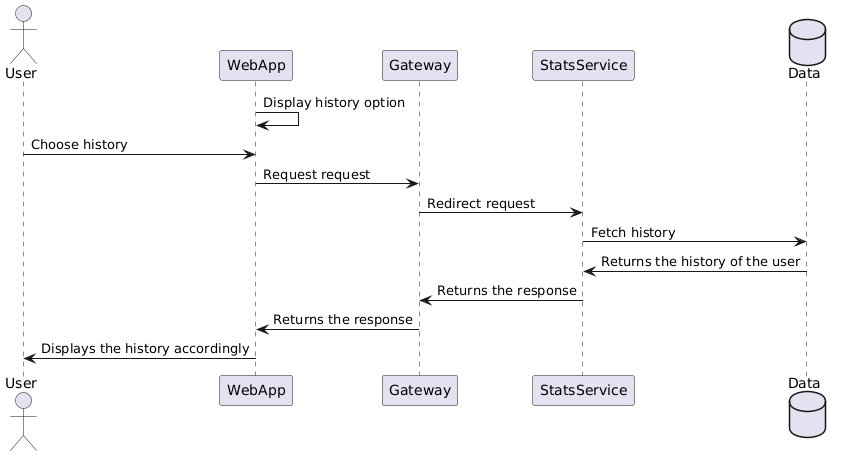
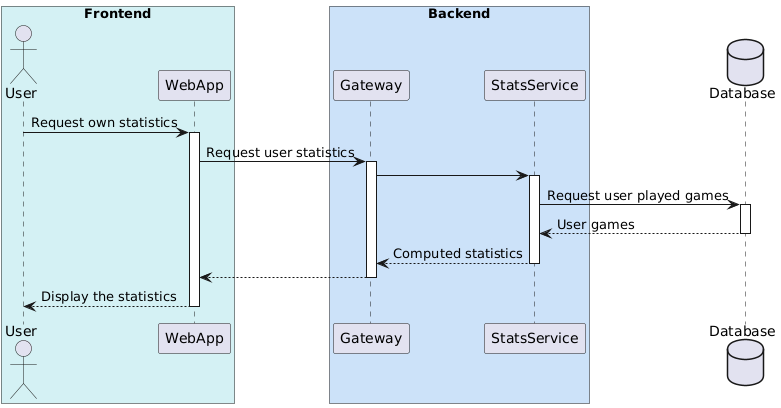
Updates

diff --git a/index.html b/index.html
@@ -486,7 +486,7 @@ body.book #toc,body.book #preamble,body.book h1.sect0,body.book .sect1>h2{page-b
 <li><a href="#_abstract_states_of_the_application">6.1. Abstract states of the application</a></li>
 <li><a href="#_login_of_a_user">6.2. Login of a user</a></li>
 <li><a href="#_game">6.3. Game</a></li>
-<li><a href="#_history_of_a_user">6.4. History of a user</a></li>
+<li><a href="#_statistics_of_a_user">6.4. Statistics of a user</a></li>
 </ul>
 </li>
 <li><a href="#section-deployment-view">7. Deployment View</a>
@@ -501,6 +501,7 @@ body.book #toc,body.book #preamble,body.book h1.sect0,body.book .sect1>h2{page-b
 <li><a href="#_architectural_patterns">8.3. Architectural patterns</a></li>
 <li><a href="#_security">8.4. Security</a></li>
 <li><a href="#_error_handling">8.5. Error handling</a></li>
+<li><a href="#_observability">8.6. Observability</a></li>
 </ul>
 </li>
 <li><a href="#section-design-decisions">9. Architecture Decisions</a></li>
@@ -511,10 +512,17 @@ body.book #toc,body.book #preamble,body.book h1.sect0,body.book .sect1>h2{page-b
 </ul>
 </li>
 <li><a href="#section-technical-risks">11. Risks and Technical Debts</a></li>
-<li><a href="#section-glossary">12. Glossary</a></li>
-<li><a href="#section-annex">13. Annex</a>
+<li><a href="#section-test-report">12. Test Report</a>
 <ul class="sectlevel2">
-<li><a href="#_functional_requirements">13.1. Functional Requirements</a></li>
+<li><a href="#_unit_tests">12.1. Unit tests</a></li>
+<li><a href="#_acceptance_integration_tests_e2e_tests">12.2. Acceptance / integration tests (E2E tests)</a></li>
+<li><a href="#_load_tests">12.3. Load tests</a></li>
+</ul>
+</li>
+<li><a href="#section-glossary">13. Glossary</a></li>
+<li><a href="#section-annex">14. Annex</a>
+<ul class="sectlevel2">
+<li><a href="#_functional_requirements">14.1. Functional Requirements</a></li>
 </ul>
 </li>
 </ul>
@@ -626,7 +634,10 @@ These include</p>
 <p>Keeping automation of questions using Wikidata, minimizing manual effort.</p>
 </li>
 <li>
-<p>Ensuring accessibility through a web-based platform.
+<p>Ensuring accessibility through a web-based platform.</p>
+</li>
+<li>
+<p>Add additional features such as custom games and an AI vs user game mode.
 Additionally, the system should be designed with extensibility in mind, allowing for future improvements.</p>
 </li>
 </ul>
@@ -1113,7 +1124,7 @@ The title of the table is the name of your system, the three columns contain the
 <tbody>
 <tr>
 <td class="tableblock halign-left valign-top"><p class="tableblock"><em>User</em></p></td>
-<td class="tableblock halign-left valign-top"><p class="tableblock">Interaction with the WebApp like answering to questions, introducing credentials and asking for user data.</p></td>
+<td class="tableblock halign-left valign-top"><p class="tableblock">Interaction with the application like answering to questions, introducing credentials and asking for user data.</p></td>
 <td class="tableblock halign-left valign-top"><p class="tableblock">Proper response to the interaction performed by the user.</p></td>
 </tr>
 <tr>
@@ -1128,8 +1139,8 @@ The title of the table is the name of your system, the three columns contain the
 </tr>
 <tr>
 <td class="tableblock halign-left valign-top"><p class="tableblock"><em>LLM</em></p></td>
-<td class="tableblock halign-left valign-top"><p class="tableblock">Queries from the application for generating questions.</p></td>
-<td class="tableblock halign-left valign-top"><p class="tableblock">The questions that have been generated by the LLM.</p></td>
+<td class="tableblock halign-left valign-top"><p class="tableblock">Queries from the application for generating hints.</p></td>
+<td class="tableblock halign-left valign-top"><p class="tableblock">The hints that have been generated by the LLM.</p></td>
 </tr>
 </tbody>
 </table>
@@ -1200,7 +1211,7 @@ together with a mapping table showing the relationships between channels and inp
 </tr>
 <tr>
 <td class="tableblock halign-left valign-top"><p class="tableblock"><em>LLM</em></p></td>
-<td class="tableblock halign-left valign-top"><p class="tableblock">Generates and returns questions based in the queries received.</p></td>
+<td class="tableblock halign-left valign-top"><p class="tableblock">Generates and returns hints based in the queries received.</p></td>
 </tr>
 </tbody>
 </table>
@@ -1279,14 +1290,18 @@ Refer to details in the following sections.</p>
 </li>
 </ul>
 </div>
+<div class="paragraph">
+<p>There are more technology decisions that are not listed here, but they are not as relevant as the ones listed above. The complete list can be found in the <a href="#section-design-decisions">Architecture Decisions</a> section of the documentation.</p>
+</div>
 </div>
 <div class="sect2">
 <h3 id="_top_level_decomposition_decisions">4.2. Top-level decomposition decisions</h3>
 <div class="ulist">
 <ul>
 <li>
-<p><strong>Microservices pattern:</strong> The Microservices architectural pattern is used, so the application is divided into different components with a responsibility each one. This makes the different components independent and low coupled, allowing mantainability.
-Also, it reduces possible conflicts between the development carried out by the team members and the code dependencies.</p>
+<p><strong>Non-pure microservices pattern:</strong> This pattern is used, so the application is divided into different components with a responsibility each one. This makes the different components independent and lowly coupled, allowing mantainability.
+Also, it reduces possible conflicts between the development carried out by the team members and the code dependencies.
+The pattern is non-pure to reduce the complexity of the application and redundancies between the microservices.</p>
 </li>
 <li>
 <p><strong>Gateway pattern:</strong> This pattern is chosen because it allows to give the application a single request interface that redirects requests by the
@@ -2047,7 +2062,7 @@ The state diagram shows the relation of the different situations of the app.</p>
 </div>
 <div class="paragraph">
 <p>When logging, the app does a login request to the authentication service through the GatewayService, which redirects the user to the identity provider, which handles the authentication by checking the registered users.
-If the login is succesfully, the app shows the different options of the game. In case the login isn’t succesfully, a warning message is shown.</p>
+If the login is succesfully, the app shows the different options of the game. In case the login isn&#8217;t succesfully, a warning message is shown.</p>
 </div>
 <div class="imageblock">
 <div class="content">
@@ -2060,12 +2075,12 @@ If the login is succesfully, the app shows the different options of the game. In
 <div class="ulist">
 <ul>
 <li>
-<p>Game transitions and process behind the user interface. Introducing the GameService, QuestionService, LLMService, WikiDataService.</p>
+<p>Game transitions and process behind the user interface.</p>
 </li>
 </ul>
 </div>
 <div class="paragraph">
-<p>When playing, the user interface interacts with the distribution facade GatewayService, in charge of hiding the back-end services and business and persistance layers.</p>
+<p>When playing, the user interface interacts with the distribution facade Gateway, in charge of hiding the back-end services, business and persistance layers.</p>
 </div>
 <div class="imageblock">
 <div class="content">
@@ -2074,23 +2089,20 @@ If the login is succesfully, the app shows the different options of the game. In
 </div>
 </div>
 <div class="sect2">
-<h3 id="_history_of_a_user">6.4. History of a user</h3>
+<h3 id="_statistics_of_a_user">6.4. Statistics of a user</h3>
 <div class="ulist">
 <ul>
 <li>
-<p>History of a user including stats of the games played.</p>
+<p>Statistics of a user.</p>
 </li>
 </ul>
 </div>
 <div class="paragraph">
-<p>When the user enters the history view, it is displayed the games played alongside contextual information, featuring:
-- Number of games played
-- Time scores of the best games
-- Relation of correct / incorrect answers</p>
+<p>When the user enters the view, statistics about themselves are shown.</p>
 </div>
 <div class="imageblock">
 <div class="content">
-<img src="./images/06_History.png" alt="Sequence Diagram of displaying the history of a user">
+<img src="./images/06_History.png" alt="Sequence Diagram of displaying the statistics of a user">
 </div>
 </div>
 <div style="page-break-after: always;"></div>
@@ -2203,7 +2215,7 @@ when your infrastructure is more complex.</p>
 <p>This system is built to handle growth. Each part can be scaled up as needed. In this diagram we use containers, so if we need more of something like the Question Service, we can easily add it. With Docker-compose we can automate this.</p>
 </div>
 <div class="paragraph">
-<p>Security is important. All communication is encrypted with HTTPS, so this keeps the internal parts of the system protected. The API Gateway also adds a layer of security by managing all incoming requests.</p>
+<p>Security is important.The API Gateway adds a layer of security by managing and authenticating all incoming requests.</p>
 </div>
 <div class="paragraph">
 <p>If something goes wrong, the container system helps because if one part fails, it can be restarted without affecting the others.  We also have logging and monitoring to help us find and fix problems quickly.</p>
@@ -2410,6 +2422,12 @@ of the system. Every call or dependency between components or important parts is
 of errors and not propagate them thorughout the application, sending proper messages and codes to the different
 components to ensure the availability of the system and its proper working without failing. This enhances, in case
 an error occurs, the user experience so the user is informed if some process can not be carried out.</p>
+</div>
+</div>
+<div class="sect2">
+<h3 id="_observability">8.6. Observability</h3>
+<div class="paragraph">
+<p>The system is designed to be observable, allowing gateway request monitoring from Grafana + Prometheus, as well as a more rudimentary monitoring of the different components through the use of a common and consistent logging system. This system allows logging errors, warnings and requests among others. It also enables faster debugging. Lastly the system is configured to censor sensitive information in the logs, such as authentication tokens and referrers.</p>
 </div>
 <div style="page-break-after: always;"></div>
 </div>
@@ -2886,7 +2904,94 @@ more precisely down to a level of scenarios that can be discussed and evaluated.
 </div>
 </div>
 <div class="sect1">
-<h2 id="section-glossary">12. Glossary</h2>
+<h2 id="section-test-report">12. Test Report</h2>
+<div class="sectionbody">
+<div class="paragraph">
+<p>Our application has been tested using the following methods:</p>
+</div>
+<div class="sect2">
+<h3 id="_unit_tests">12.1. Unit tests</h3>
+<div class="paragraph">
+<p>Unit tests were written to <strong>test each microservice</strong> independently, by mocking the dependent microservices and ensure each microservice works as expected.</p>
+</div>
+<div class="paragraph">
+<p>The unit tests were written using the <strong>Jest</strong> framework, which is a popular testing framework for JavaScript applications.</p>
+</div>
+<div class="sect3">
+<h4 id="_coverage">12.1.1. Coverage</h4>
+<div class="paragraph">
+<p>These tests have a <strong>minimum required coverage of &gt;80%</strong> of the codebase which, at the time of writing this report is, <strong>86.8%</strong>.</p>
+</div>
+<div class="paragraph">
+<p>For a more detailed report about the coverage, refer to the following <a href="https://sonarcloud.io/component_measures?metric=coverage&amp;view=list&amp;id=Arquisoft_wichat_en1c">link</a>.</p>
+</div>
+</div>
+</div>
+<div class="sect2">
+<h3 id="_acceptance_integration_tests_e2e_tests">12.2. Acceptance / integration tests (E2E tests)</h3>
+<div class="paragraph">
+<p>Integration tests were written using the <strong>Cucumber</strong> framework, and <strong>Jest</strong> as the execution platform.</p>
+</div>
+<div class="paragraph">
+<p>A total of <strong>five sets of tests</strong> were created to ensure <strong>all features</strong> of the application are covered and tested.</p>
+</div>
+<div class="paragraph">
+<p>These tests allow verifying that the system behaves as expected when <strong>all components interact together</strong>.</p>
+</div>
+</div>
+<div class="sect2">
+<h3 id="_load_tests">12.3. Load tests</h3>
+<div class="paragraph">
+<p>Load tests were written using the <strong>Gatling</strong> framework, which is a popular testing framework for load testing.</p>
+</div>
+<div class="paragraph">
+<p>A load test comprising <strong>all the features except for custom games</strong> was created and run by <strong>20 active users</strong> at a time.
+Overall the test output was <strong>positive</strong>, as the system was able to handle the most of the load without issues, thus proving the <strong>"performance" quality attribute</strong>.</p>
+</div>
+<div class="paragraph">
+<p>The last test report can be found in the <a href="https://github.com/Arquisoft/wichat_en1c/tree/master/tests/load/lastRun">repository</a>.</p>
+</div>
+<div class="imageblock">
+<div class="content">
+<img src="./images/tests/load_test.png" alt="Load Test Report">
+</div>
+</div>
+<div class="sect3">
+<h4 id="_issues_found">12.3.1. Issues found</h4>
+<div class="paragraph">
+<p>Some performance issues were detected during the load tests, and an <a href="https://github.com/Arquisoft/wichat_en1c/issues/137">issue</a> in the repository was created to track them:</p>
+</div>
+<div class="ulist">
+<ul>
+<li>
+<p>We detected that the question service struggled with <strong>getting the first question</strong>, which took <strong>&gt;1200ms</strong> almost half of the time. The question service should be improved to be able to handle more requests.</p>
+</li>
+</ul>
+</div>
+<div class="imageblock">
+<div class="content">
+<img src="./images/tests/slow_questions.png" alt="Slow Questions Issue">
+</div>
+</div>
+<div class="ulist">
+<ul>
+<li>
+<p>Also, we detected that serving the background video stream was a bottleneck, so it should be moved to an external <strong>CDN</strong> to alliviate the load on the <strong>WebApp</strong>.</p>
+</li>
+</ul>
+</div>
+<div class="imageblock">
+<div class="content">
+<img src="./images/tests/slow_video.png" alt="Slow Video Issue">
+</div>
+</div>
+<div style="page-break-after: always;"></div>
+</div>
+</div>
+</div>
+</div>
+<div class="sect1">
+<h2 id="section-glossary">13. Glossary</h2>
 <div class="sectionbody">
 <div class="sidebarblock arc42help">
 <div class="content">
@@ -2982,12 +3087,12 @@ more precisely down to a level of scenarios that can be discussed and evaluated.
 </div>
 </div>
 <div class="sect1">
-<h2 id="section-annex">13. Annex</h2>
+<h2 id="section-annex">14. Annex</h2>
 <div class="sectionbody">
 <div class="sect2">
-<h3 id="_functional_requirements">13.1. Functional Requirements</h3>
+<h3 id="_functional_requirements">14.1. Functional Requirements</h3>
 <div class="sect3">
-<h4 id="_registration">13.1.1. Registration</h4>
+<h4 id="_registration">14.1.1. Registration</h4>
 <div class="ulist">
 <ul>
 <li>
@@ -3077,7 +3182,7 @@ more precisely down to a level of scenarios that can be discussed and evaluated.
 </div>
 </div>
 <div class="sect3">
-<h4 id="_login_and_logout">13.1.2. Login and Logout</h4>
+<h4 id="_login_and_logout">14.1.2. Login and Logout</h4>
 <div class="ulist">
 <ul>
 <li>
@@ -3110,7 +3215,7 @@ more precisely down to a level of scenarios that can be discussed and evaluated.
 </div>
 </div>
 <div class="sect3">
-<h4 id="_user_profile_and_data_management">13.1.3. User Profile and Data Management</h4>
+<h4 id="_user_profile_and_data_management">14.1.3. User Profile and Data Management</h4>
 <div class="ulist">
 <ul>
 <li>
@@ -3201,7 +3306,7 @@ more precisely down to a level of scenarios that can be discussed and evaluated.
 </div>
 </div>
 <div class="sect3">
-<h4 id="_game_session">13.1.4. Game Session</h4>
+<h4 id="_game_session">14.1.4. Game Session</h4>
 <div class="ulist">
 <ul>
 <li>
@@ -3264,7 +3369,7 @@ more precisely down to a level of scenarios that can be discussed and evaluated.
 </div>
 </div>
 <div class="sect3">
-<h4 id="_hint_system">13.1.5. Hint System</h4>
+<h4 id="_hint_system">14.1.5. Hint System</h4>
 <div class="ulist">
 <ul>
 <li>
@@ -3316,7 +3421,7 @@ more precisely down to a level of scenarios that can be discussed and evaluated.
 </div>
 </div>
 <div class="sect3">
-<h4 id="_custom_games">13.1.6. Custom Games</h4>
+<h4 id="_custom_games">14.1.6. Custom Games</h4>
 <div class="ulist">
 <ul>
 <li>
@@ -3376,7 +3481,7 @@ more precisely down to a level of scenarios that can be discussed and evaluated.
 </div>
 </div>
 <div class="sect3">
-<h4 id="_question_management">13.1.7. Question Management</h4>
+<h4 id="_question_management">14.1.7. Question Management</h4>
 <div class="ulist">
 <ul>
 <li>
@@ -3396,7 +3501,7 @@ more precisely down to a level of scenarios that can be discussed and evaluated.
 </div>
 </div>
 <div class="sect3">
-<h4 id="_user_data_access">13.1.8. User Data Access</h4>
+<h4 id="_user_data_access">14.1.8. User Data Access</h4>
 <div class="ulist">
 <ul>
 <li>
@@ -3422,7 +3527,7 @@ more precisely down to a level of scenarios that can be discussed and evaluated.
 <div id="footer">
 <div id="footer-text">
 Version 8.2 EN<br>
-Last updated 2025-03-02 14:39:31 +0100
+Last updated 2025-05-01 20:10:42 +0200
 </div>
 </div>
 </body>
